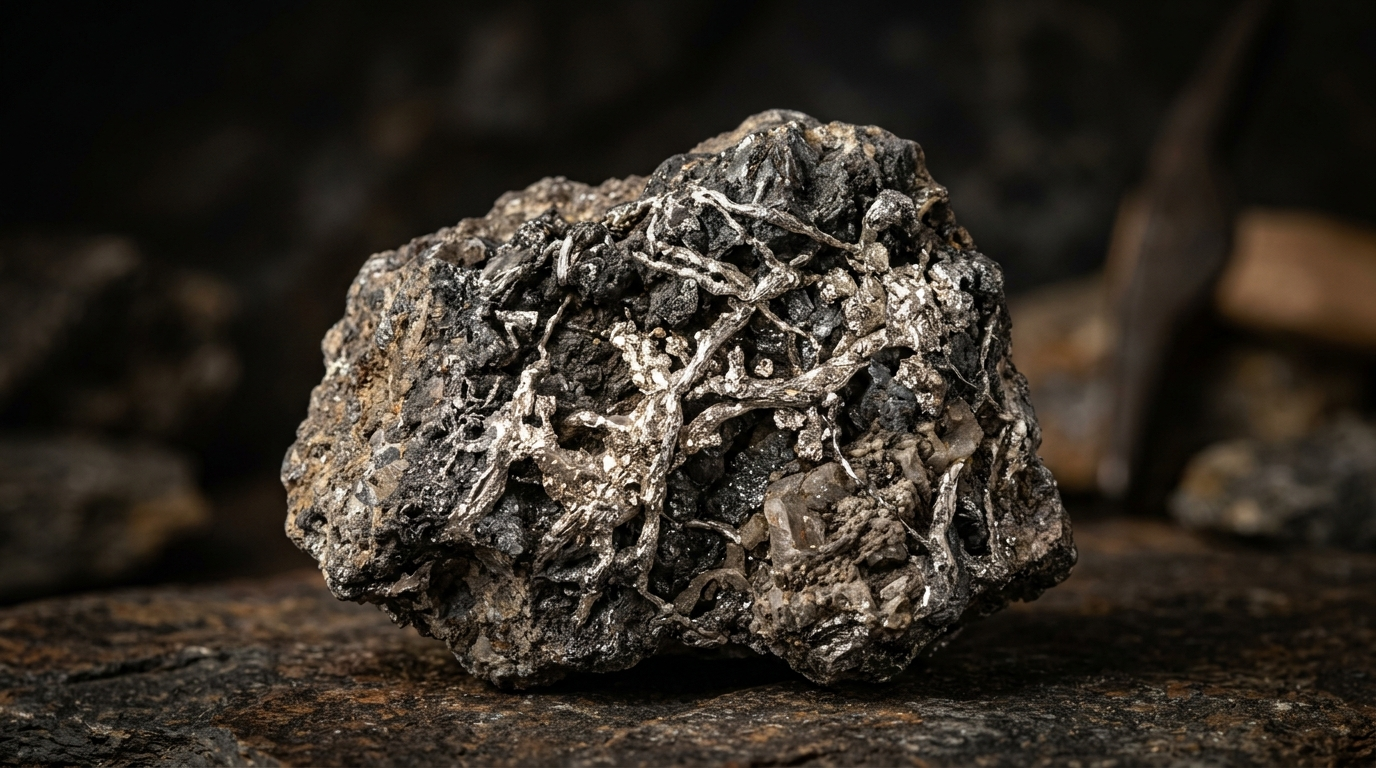
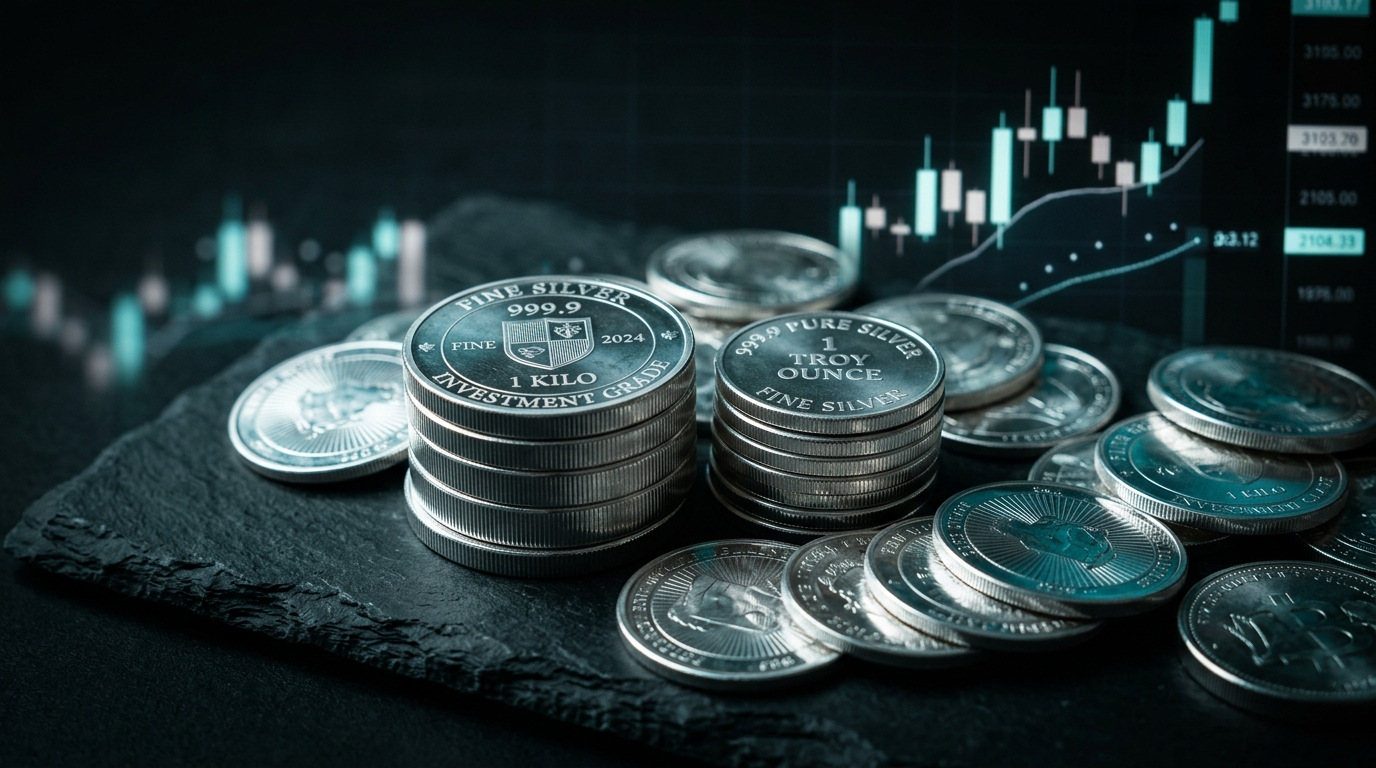
feat(bento): update silver markets card with fine silver coins and trading chart aesthetic

diff --git a/outcrop/index.html b/outcrop/index.html
@@ -398,7 +398,7 @@
         <div class="split-cards-grid">
             <!-- Card 1: Silver Markets -->
             <div class="split-card silver-markets-card" onclick="window.location.href = 'investors.html#silver-markets'" style="cursor: pointer;">
-                <div class="card-bg-img" style="background-image: url('assets/silver_markets.jpg?v=20261005_v3');"></div>
+                <div class="card-bg-img" style="background-image: url('assets/silver_markets.jpg?v=20261005_coins');"></div>
                 <div class="split-card-overlay"></div>
                 <div class="video-card-header">
                     <h3 class="card-title-main">Silver Markets</h3>

diff --git a/outcrop/preview.html b/outcrop/preview.html
@@ -398,7 +398,7 @@
         <div class="split-cards-grid">
             <!-- Card 1: Silver Markets -->
             <div class="split-card silver-markets-card" onclick="window.location.href = 'investors.html#silver-markets'" style="cursor: pointer;">
-                <div class="card-bg-img" style="background-image: url('assets/silver_markets.jpg?v=20261005_v3');"></div>
+                <div class="card-bg-img" style="background-image: url('assets/silver_markets.jpg?v=20261005_coins');"></div>
                 <div class="split-card-overlay"></div>
                 <div class="video-card-header">
                     <h3 class="card-title-main">Silver Markets</h3>

diff --git a/outcrop/review.html b/outcrop/review.html
@@ -398,7 +398,7 @@
         <div class="split-cards-grid">
             <!-- Card 1: Silver Markets -->
             <div class="split-card silver-markets-card" onclick="window.location.href = 'investors.html#silver-markets'" style="cursor: pointer;">
-                <div class="card-bg-img" style="background-image: url('assets/silver_markets.jpg?v=20261005_v3');"></div>
+                <div class="card-bg-img" style="background-image: url('assets/silver_markets.jpg?v=20261005_coins');"></div>
                 <div class="split-card-overlay"></div>
                 <div class="video-card-header">
                     <h3 class="card-title-main">Silver Markets</h3>

diff --git a/outcrop/investors.html b/outcrop/investors.html
@@ -118,7 +118,7 @@
     </div>
 
     <!-- Internal Hero Banner -->
-    <section class="internal-hero" id="silver-markets" style="background-image: url('assets/silver_markets.jpg?v=20261005_v3');">
+    <section class="internal-hero" id="silver-markets" style="background-image: url('assets/silver_markets.jpg?v=20261005_coins');">
         <div class="internal-hero-overlay"></div>
         <div class="internal-hero-content">
             <h1 class="internal-title">Investors</h1>
